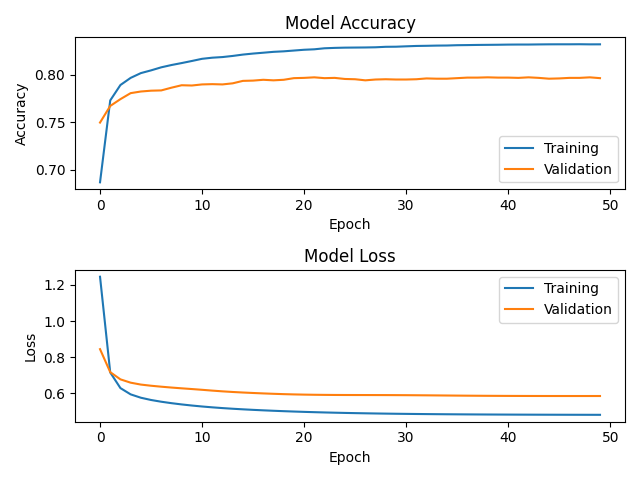
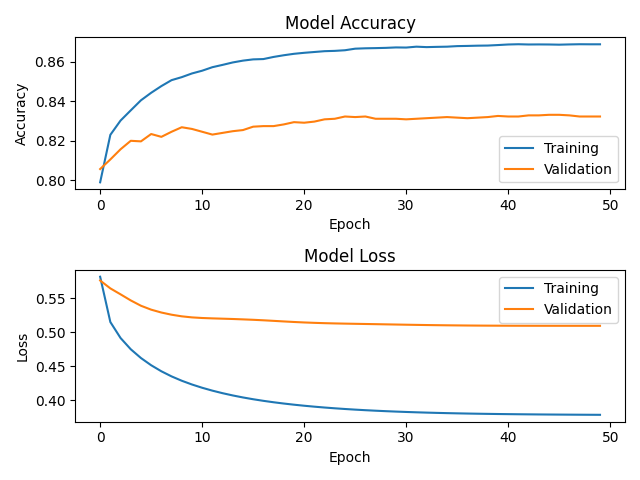
Update new way to load data and preprocessing data

diff --git a/transfer_learning_boosting.py b/transfer_learning_boosting.py
@@ -1,0 +1,114 @@
+# # NOTE: comment this if train using GPU
+# import os
+# os.environ["CUDA_DEVICE_ORDER"] = "PCI_BUS_ID"   # see issue #152
+# os.environ["CUDA_VISIBLE_DEVICES"] = "-1"
+from preprocess import load_batch, load_batch_bootstrap, load_testing, load_training, load_validation
+import tensorflow as tf
+
+import keras
+from keras.applications.inception_resnet_v2 import InceptionResNetV2
+from keras.models import Model
+from keras.layers import Dense, GlobalAveragePooling2D
+from keras.losses import CategoricalCrossentropy, MeanSquaredError
+from keras.metrics import CategoricalAccuracy
+from keras.optimizers import Adam
+# from keras.wrappers.scikit_learn import KerasClassifier, KerasRegressor
+from scikeras.wrappers import KerasClassifier, KerasRegressor
+
+from keras.preprocessing.image import ImageDataGenerator, array_to_img, img_to_array, load_img
+
+from tensorflow.python.keras.optimizer_v2.learning_rate_schedule import ExponentialDecay
+
+from matplotlib import pyplot as plt
+
+from sklearn.ensemble import AdaBoostClassifier, AdaBoostRegressor
+
+import numpy as np
+
+# NOTE: uncomment this if train using GPU
+physical_devices = tf.config.list_physical_devices('GPU') 
+tf.config.experimental.set_memory_growth(physical_devices[0], True)
+
+# Hyperparameters:
+epochs = 10
+n_batches = 5
+batch_size = 32
+preprocess_batch_path = 'Preprocess_batch'
+trained_model_path = 'Trained_model' # Please set this to a different value to create different folder for different model
+random_state = None # Please set this to a number if train using bootstrap
+
+# Load model without classifier layers
+base_model = InceptionResNetV2(
+    weights = 'imagenet',
+    input_shape = (224, 224, 3),
+    include_top = False)
+
+base_model.trainable = False
+
+inputs = keras.Input(shape = (224, 224, 3), dtype=tf.float32)
+x = base_model(inputs)
+x = GlobalAveragePooling2D()(x)
+outputs = Dense(7, activation = 'softmax')(x)
+# outputs = Dense(7)(x)
+model = Model(inputs, outputs)
+
+lr_schedule = ExponentialDecay(
+    initial_learning_rate=1e-3,
+    decay_steps=1000,
+    decay_rate=0.9)
+optimizer = Adam(learning_rate=lr_schedule)
+
+model.compile(optimizer=optimizer,
+            loss=CategoricalCrossentropy(from_logits=True),
+            metrics=[CategoricalAccuracy()])
+# model.compile(optimizer=optimizer,
+#             loss=MeanSquaredError(),
+#             metrics=['mse'])
+
+# ann_estimator = KerasRegressor(build_fn=model, epochs=epochs, batch_size=batch_size, verbose=0)
+ann_estimator = KerasRegressor(model=model, epochs=epochs, batch_size=batch_size, verbose=0)
+
+boosted_ann = AdaBoostRegressor(base_estimator=ann_estimator, n_estimators=10, learning_rate=1e-3)
+
+X_train, y_train = load_training(preprocess_batch_path, n_batches)
+sample_weights = np.full(y_train.shape, 1/y_train.shape[0])
+
+boosted_ann.fit(X_train, y_train, sample_weights)
+
+X_test, y_test = load_testing(preprocess_batch_path)
+accuracy = boosted_ann.score(X_test, y_test)
+print(accuracy*100,'%')
+
+# history = model.fit(load_batch(preprocess_batch_path, n_batches, batch_size),
+#                     epochs=epochs,
+#                     steps_per_epoch=197*n_batches, 
+#                     validation_data=load_validation(preprocess_batch_path, batch_size), validation_steps=109)
+
+# model.save("Trained_model")
+
+# print(model.summary())
+# plt.figure(1)
+
+# # summarize history for accuracy
+
+# plt.subplot(211)
+# plt.plot(history.history['categorical_accuracy'])
+# plt.plot(history.history['val_categorical_accuracy'])
+# plt.title('Model Accuracy')
+# plt.ylabel('Accuracy')
+# plt.xlabel('Epoch')
+# plt.legend(['Training', 'Validation'], loc='lower right')
+
+# # summarize history for loss
+
+# plt.subplot(212)
+# plt.plot(history.history['loss'])
+# plt.plot(history.history['val_loss'])
+# plt.title('Model Loss')
+# plt.ylabel('Loss')
+# plt.xlabel('Epoch')
+# plt.legend(['Training', 'Validation'], loc='upper right')
+
+# plt.tight_layout()
+
+# plt.show()

diff --git a/transfer_learning.py b/transfer_learning.py
@@ -1,12 +1,13 @@
-# NOTE: comment this if train using GPU
-import os
-os.environ["CUDA_DEVICE_ORDER"] = "PCI_BUS_ID"   # see issue #152
-os.environ["CUDA_VISIBLE_DEVICES"] = "-1"
+# # NOTE: comment this if train using GPU
+# import os
+# os.environ["CUDA_DEVICE_ORDER"] = "PCI_BUS_ID"   # see issue #152
+# os.environ["CUDA_VISIBLE_DEVICES"] = "-1"
 from preprocess import load_batch, load_batch_bootstrap, load_validation
 import tensorflow as tf
 
 import keras
 from keras.applications.vgg19 import VGG19
+from keras.applications.inception_resnet_v2 import InceptionResNetV2
 from keras.models import Model
 from keras.layers import Dense, GlobalAveragePooling2D
 from keras.losses import CategoricalCrossentropy
@@ -17,29 +18,30 @@ from tensorflow.python.keras.optimizer_v2.learning_rate_schedule import Exponent
 from matplotlib import pyplot as plt
 
 # NOTE: uncomment this if train using GPU
-# physical_devices = tf.config.list_physical_devices('GPU') 
-# tf.config.experimental.set_memory_growth(physical_devices[0], True)
+physical_devices = tf.config.list_physical_devices('GPU') 
+tf.config.experimental.set_memory_growth(physical_devices[0], True)
 
 # Hyperparameters:
 epochs = 50
-n_batches = 5
 batch_size = 32
+image_shape = 240
 preprocess_batch_path = 'Preprocess_batch'
 trained_model_path = 'Trained_model' # Please set this to a different value to create different folder for different model
 random_state = None # Please set this to a number if train using bootstrap
 
 # Load model without classifier layers
-base_model = VGG19(
+base_model = InceptionResNetV2(
     weights = 'imagenet',
-    input_shape = (224, 224, 3),
+    input_shape = (image_shape, image_shape, 3),
     include_top = False)
 
 base_model.trainable = False
 
-inputs = keras.Input(shape = (224, 224, 3), dtype=tf.float32)
+inputs = keras.Input(shape = (image_shape, image_shape, 3), dtype=tf.float32)
 x = base_model(inputs)
 x = GlobalAveragePooling2D()(x)
-outputs = Dense(7)(x)
+outputs = Dense(7, activation = 'softmax')(x)
+# outputs = Dense(7)(x)
 model = Model(inputs, outputs)
 
 lr_schedule = ExponentialDecay(
@@ -52,10 +54,38 @@ model.compile(optimizer=optimizer,
             loss=CategoricalCrossentropy(from_logits=True),
             metrics=[CategoricalAccuracy()])
 
-history = model.fit(load_batch_bootstrap(preprocess_batch_path, n_batches, batch_size, random_state),
-                    epochs=epochs,
-                    steps_per_epoch=197*n_batches, 
-                    validation_data=load_validation(preprocess_batch_path, batch_size), validation_steps=109)
+from keras.preprocessing.image import ImageDataGenerator
+train_datagen = ImageDataGenerator(
+        rescale=1./255,
+        shear_range=0.2,
+        zoom_range=0.2,
+        horizontal_flip=True,
+        )
+test_datagen = ImageDataGenerator(rescale=1./255)
+train_generator = train_datagen.flow_from_directory(
+        'data/train',
+        target_size=(image_shape, image_shape),
+        batch_size=32,
+        class_mode='categorical',
+        )
+validation_generator = test_datagen.flow_from_directory(
+        'data/validation',
+        target_size=(image_shape, image_shape),
+        batch_size=32,
+        class_mode='categorical',
+        )
+history = model.fit(
+        train_generator,
+        steps_per_epoch=219,
+        epochs=epochs,
+        validation_data=validation_generator,
+        validation_steps=27)
+
+
+# history = model.fit(load_batch(preprocess_batch_path, n_batches, batch_size),
+#                     epochs=epochs,
+#                     steps_per_epoch=197*n_batches, 
+#                     validation_data=load_validation(preprocess_batch_path, batch_size), validation_steps=109)
 
 model.save("Trained_model")
 

diff --git a/preprocess.py b/preprocess.py
@@ -2,6 +2,7 @@ import numpy as np
 import os
 from PIL import Image
 from sklearn.utils import resample
+from keras.applications.inception_resnet_v2 import preprocess_input
 
 def batch_features_labels(features, labels, batch_size):
     """
@@ -91,7 +92,7 @@ def one_hot_encode(x):
 def load_raw_data(path, cats):
     features = []
     labels = []
-    cat_input_length = 5000
+    cat_input_length = 2000
     for idx, cat in enumerate(cats):
         cat_path = os.listdir(path + '/' + cat)
         i = 0
@@ -100,13 +101,13 @@ def load_raw_data(path, cats):
                 # img = nets.utils.load_img(path + '/' + cat + '/' + img_path,\
                 #         crop_size=224)
                 img = Image.open(path + '/' + cat + '/' + img_path)
-                img = img.resize((32, 32))
+                img = img.resize((224, 224))
                 img = img.convert('RGB')
             except Exception as _:
                 print(path + '/' + cat + '/' + img_path)
                 raise(ValueError())
             # img = img.reshape(224, 224, 3)
-            img = np.array(img)
+            img = np.array(img, dtype=np.float32)
             img = img / 255
 
             features.append(img)
@@ -120,6 +121,7 @@ def load_raw_data(path, cats):
     features = np.array(features)
     labels = np.array(labels, dtype=np.uint8)
     labels = one_hot_encode(labels)
+    # labels = labels/6
     rng_state = np.random.get_state()
     np.random.shuffle(features)
     np.random.set_state(rng_state)
@@ -133,3 +135,21 @@ if __name__ == "__main__":
     features, labels = load_raw_data(dataset_path, categories)
     
     save_batch('Preprocess_batch', 5, features, labels)
+
+def load_training(preprocess_batch_path, n_batches):
+    """
+    Load the Preprocessed Training data and return them all
+    """
+    features = []
+    labels = []
+    for batch_id in range(1, n_batches + 1): 
+        batch = np.load(preprocess_batch_path + '/preprocess_batch_' + str(batch_id) + '.npz')
+        features.append(batch["features"])
+        labels.append(batch["labels"])
+    features = np.concatenate(features, axis=0)
+    labels = np.concatenate(labels, axis=0)
+    return features, labels
+
+def load_testing(preprocess_batch_path):
+    valid = np.load(preprocess_batch_path + '/preprocess_validation.npz')
+    return valid["features"], valid["labels"]
